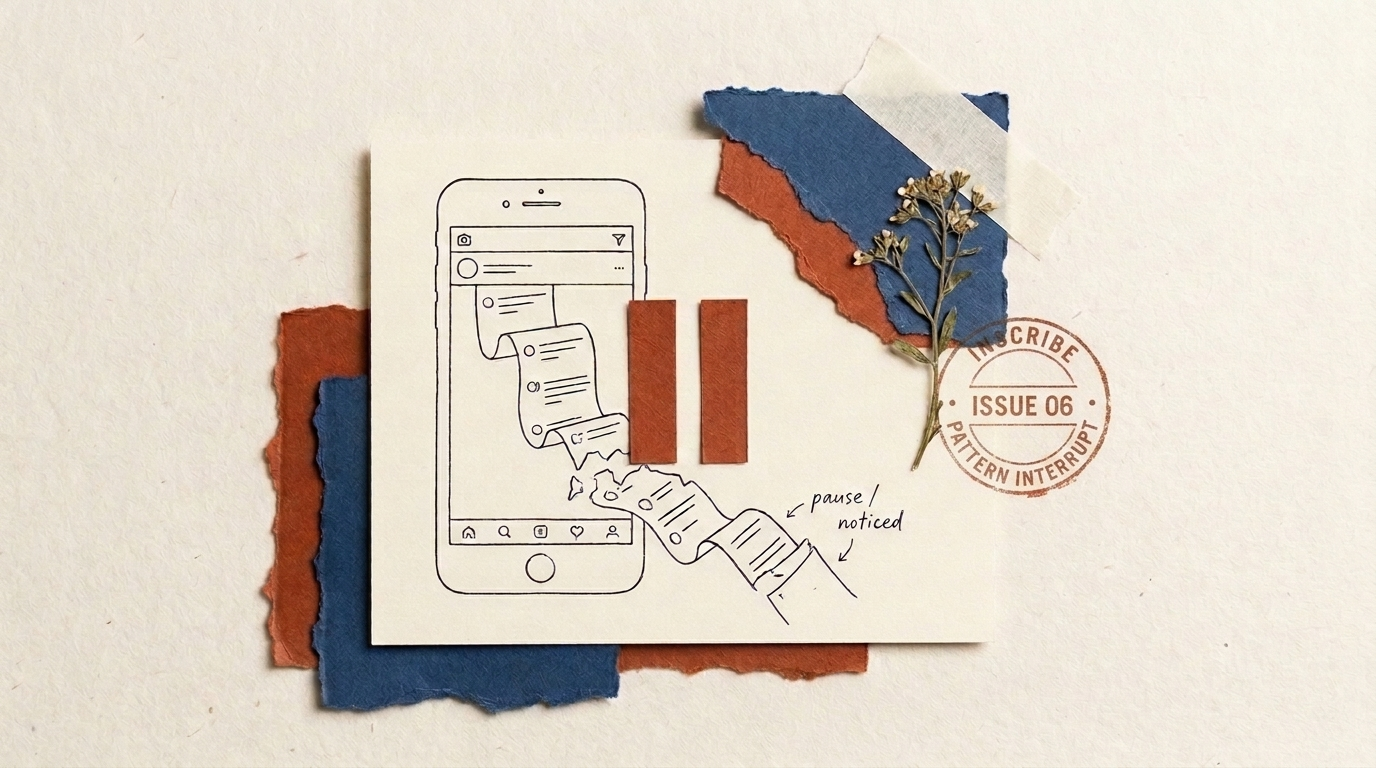
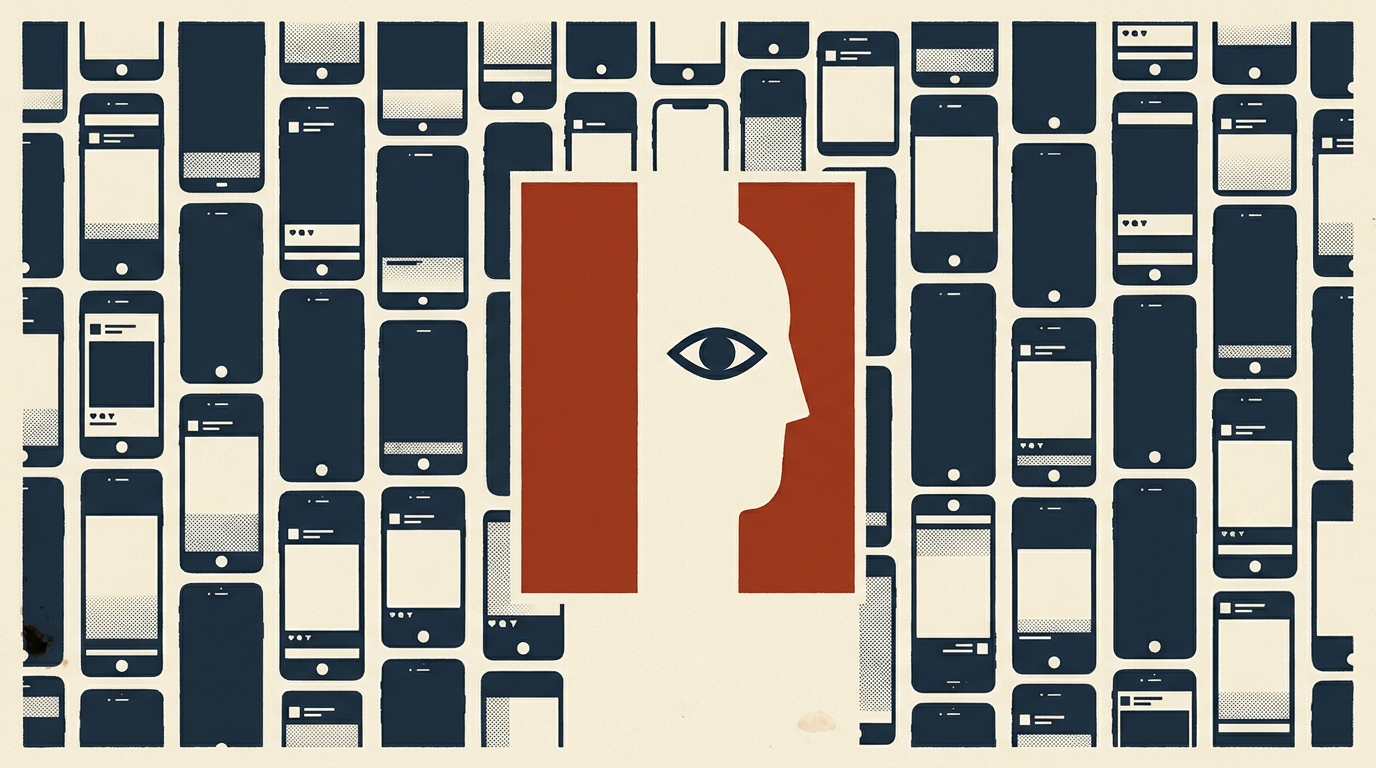
Update Issue 06 artwork to Mondo poster design (Olly Moss negative space & Saul Bass abstraction)

diff --git a/index.html b/index.html
@@ -1243,7 +1243,7 @@
             <div class="nb-collage nb-photo-frame">
               <div class="nb-collage-tape nb-collage-tape-tl" aria-hidden="true"></div>
               <div class="nb-collage-tape nb-collage-tape-tr" aria-hidden="true"></div>
-              <img src="notebook-collage-06.jpg" alt="Editorial collage: fine-line smartphone with an interrupted scrolling feed ribbon, bold terracotta pause bars, layered cobalt and terracotta deckle-edge paper, dried botanical stem, and Inscribe Issue 06 stamp" class="nb-collage-img" style="width:100%; height:auto; display:block; aspect-ratio:16/10; object-fit:cover; border:1px solid rgba(23,23,23,0.16);" loading="lazy">
+              <img src="notebook-collage-06.jpg" alt="Mondo poster style screen-print: hypnotic cascading columns of social media feeds halted by bold terracotta pause bars, with negative space forming an alert human silhouette" class="nb-collage-img" style="width:100%; height:auto; display:block; aspect-ratio:16/10; object-fit:cover; border:1px solid rgba(23,23,23,0.16);" loading="lazy">
             </div>
           </div>
 

diff --git a/notebook/index.html b/notebook/index.html
@@ -700,7 +700,7 @@
           <article class="featured-card" data-category="psychology" aria-labelledby="featArtTitle">
             <div class="art-img-frame" data-cursor="VIEW">
               <div class="tape-corner"></div>
-              <img src="/notebook-collage-06.jpg" alt="Editorial collage: fine-line smartphone with an interrupted scrolling feed ribbon, bold terracotta pause bars, layered cobalt and terracotta deckle-edge paper, dried botanical stem, and Inscribe Issue 06 stamp" loading="lazy">
+              <img src="/notebook-collage-06.jpg" alt="Mondo poster style screen-print: hypnotic cascading columns of social media feeds halted by bold terracotta pause bars, with negative space forming an alert human silhouette" loading="lazy">
             </div>
 
             <div class="art-content">
